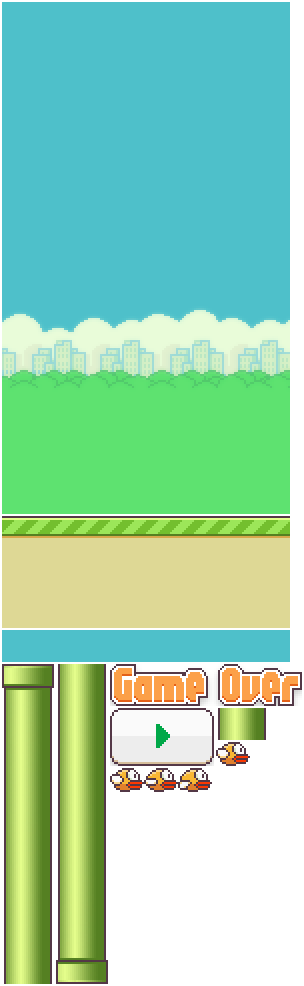
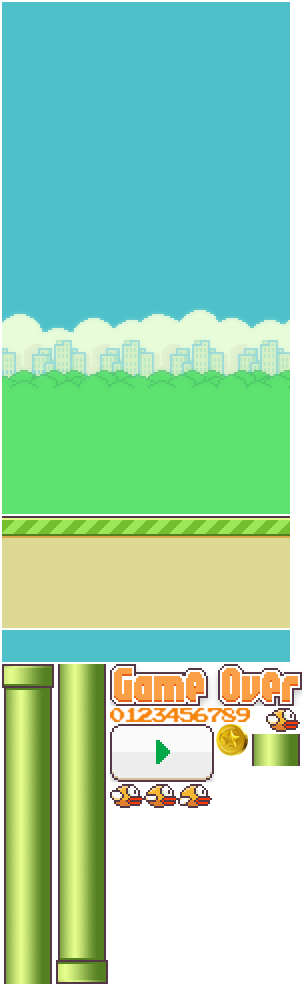
Add score and game over

Changed region(s): [[0.3553, 0.6998, 1.0, 0.8215]]

diff --git a/app/src/main/java/com/guidebee/game/tutorial/flappybird/FlappyBirdStage.java b/app/src/main/java/com/guidebee/game/tutorial/flappybird/FlappyBirdStage.java
@@ -1,28 +1,26 @@
 package com.guidebee.game.tutorial.flappybird;
 
 import com.guidebee.game.camera.viewports.Viewport;
-import com.guidebee.game.graphics.TextureAtlas;
-import com.guidebee.game.graphics.TextureRegion;
 import com.guidebee.game.scene.Group;
 import com.guidebee.game.scene.Stage;
 import com.guidebee.game.tutorial.flappybird.actor.Background;
 import com.guidebee.game.tutorial.flappybird.actor.Bird;
+import com.guidebee.game.tutorial.flappybird.actor.GameOver;
 import com.guidebee.game.tutorial.flappybird.actor.StartButton;
 import com.guidebee.game.tutorial.flappybird.actor.Tube;
-import com.guidebee.game.ui.drawable.Drawable;
-import com.guidebee.game.ui.drawable.TextureRegionDrawable;
-
-import static com.guidebee.game.GameEngine.assetManager;
+import com.guidebee.game.tutorial.flappybird.hud.Score;
 
 
 public class FlappyBirdStage extends Stage{
     private final Bird bird;
     private final Background background;
-    private final Tube ground;
+    private final Tube tube;
 
     private final Group actorGroup=new Group();
 
     private final StartButton startButton;
+    private final GameOver gameOver;
+    private final Score score;
 
     public  FlappyBirdStage(Viewport viewport){
         super(viewport);
@@ -37,9 +35,9 @@ public class FlappyBirdStage extends Stage{
 
 
 
-        ground=new Tube();
-        addActor(ground);
-        ground.toBack();
+        tube =new Tube();
+        addActor(tube);
+        tube.toBack();
 
         background=new Background();
         addActor(background);
@@ -47,10 +45,17 @@ public class FlappyBirdStage extends Stage{
 
         startButton=new StartButton(this);
         actorGroup.addActor(startButton);
+
+        gameOver=new GameOver();
+        actorGroup.addActor(gameOver);
         actorGroup.toFront();
 
+
+        score =new Score();
+        addHUDComponent(score);
+
         bird.setLive(false);
-        ground.setStopMoving(true);
+        tube.setStopMoving(true);
         background.setStopMoving(true);
 
 
@@ -58,12 +63,13 @@ public class FlappyBirdStage extends Stage{
 
     public void removeStartButton(){
         startButton.setVisible(false);
+        gameOver.setVisible(false);
     }
 
     public void startGame(){
         bird.reset();
-        ground.generateLevelData();
-        ground.setStopMoving(false);
+        tube.generateLevelData();
+        tube.setStopMoving(false);
         background.setStopMoving(false);
     }
 
@@ -74,13 +80,14 @@ public class FlappyBirdStage extends Stage{
         super.act(delta);
 
         if(bird.isLive()) {
-            if (ground.isCollideWithTube(bird.getX(), bird.getY()) || bird.isOutside()) {
+            score.setScore(tube.getScore());
+            if (tube.isCollideWithTube(bird.getX(), bird.getY()) || bird.isOutside()) {
                 bird.killBird();
-                ground.setStopMoving(true);
+                startButton.setVisible(true);
+                gameOver.setVisible(true);
+                tube.setStopMoving(true);
                 background.setStopMoving(true);
             }
-        }else{
-            startButton.setVisible(true);
         }
 
 

diff --git a/app/src/main/java/com/guidebee/game/tutorial/flappybird/hud/Score.java b/app/src/main/java/com/guidebee/game/tutorial/flappybird/hud/Score.java
@@ -1,0 +1,69 @@
+package com.guidebee.game.tutorial.flappybird.hud;
+
+import com.guidebee.game.graphics.Texture;
+import com.guidebee.game.graphics.TextureAtlas;
+import com.guidebee.game.graphics.TextureRegion;
+import com.guidebee.game.ui.HorizontalGroup;
+import com.guidebee.game.ui.Image;
+import com.guidebee.game.ui.Table;
+import com.guidebee.game.ui.drawable.TextureRegionDrawable;
+
+
+import static com.guidebee.game.GameEngine.assetManager;
+
+public class Score extends Table{
+
+    private final Image goldCoin;
+    private final Image thousands;
+    private final Image hundreds;
+    private final Image tens;
+    private final Image units;
+
+
+    private final TextureRegionDrawable [] numberDrawables;
+
+
+    public Score(){
+        TextureAtlas textureAtlas=assetManager.get("flappybird.atlas",
+                TextureAtlas.class);
+        goldCoin=new Image(textureAtlas.findRegion("coin"));
+        TextureRegion numbers=textureAtlas.findRegion("numbers");
+        numberDrawables=new TextureRegionDrawable[11];
+        for(int i=0;i<10;i++){
+            numberDrawables[i]
+                    =new TextureRegionDrawable(
+                    new TextureRegion(numbers,i*14,0,14,14));
+        }
+        thousands=new Image(numberDrawables[0]);
+        hundreds =new Image(numberDrawables[0]);
+        tens=new Image(numberDrawables[0]);
+        units=new Image(numberDrawables[0]);
+        HorizontalGroup space=new HorizontalGroup();
+        space.padLeft(10);
+
+        add(goldCoin);
+        add(space);
+        add(thousands);
+        add(hundreds);
+        add(tens);
+        add(units);
+        setSize(200, 40);
+        setPosition(20, 20);
+    }
+
+
+    public void setScore(int score){
+        int newScore= score % 10000;
+        int thousandsNum = newScore / 1000;
+
+        int hundredsNum = (newScore % 1000) / 100;
+        int tensNum =(newScore % 100) /10;
+        int unitsNum = (newScore % 10);
+
+        thousands.setDrawable(numberDrawables[thousandsNum]);
+        hundreds.setDrawable(numberDrawables[hundredsNum]);
+        tens.setDrawable(numberDrawables[tensNum]);
+        units.setDrawable(numberDrawables[unitsNum]);
+    }
+}
+

diff --git a/app/src/main/java/com/guidebee/game/tutorial/flappybird/actor/GameOver.java b/app/src/main/java/com/guidebee/game/tutorial/flappybird/actor/GameOver.java
@@ -1,0 +1,23 @@
+package com.guidebee.game.tutorial.flappybird.actor;
+
+
+import com.guidebee.game.graphics.TextureAtlas;
+import com.guidebee.game.graphics.TextureRegion;
+import com.guidebee.game.scene.Actor;
+import com.guidebee.game.tutorial.flappybird.Configuration;
+
+import static com.guidebee.game.GameEngine.assetManager;
+
+public class GameOver extends Actor {
+
+    public GameOver(){
+        super("StartButton");
+
+        TextureAtlas textureAtlas = assetManager.get("flappybird.atlas", TextureAtlas.class);
+        TextureRegion buttonTextRegion=textureAtlas.findRegion("gameover");
+        setTextureRegion(buttonTextRegion);
+        setPosition((Configuration.SCREEN_WIDTH - buttonTextRegion.getRegionWidth()) / 2,
+                (Configuration.SCREEN_HEIGHT ) / 2+buttonTextRegion.getRegionHeight());
+        setVisible(false);
+    }
+}

diff --git a/app/src/main/java/com/guidebee/game/tutorial/flappybird/actor/Tube.java b/app/src/main/java/com/guidebee/game/tutorial/flappybird/actor/Tube.java
@@ -61,6 +61,9 @@ public class Tube extends Actor {
     }
 
 
+    public int getScore(){
+        return score+1;
+    }
 
     public void generateLevelData(){
         tubePositionArray.clear();
